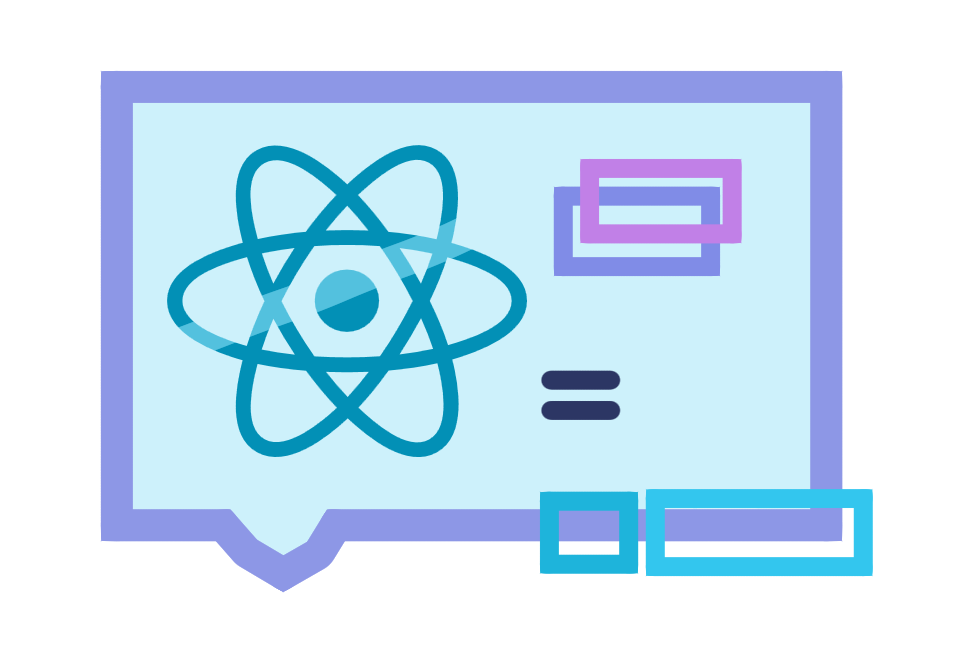
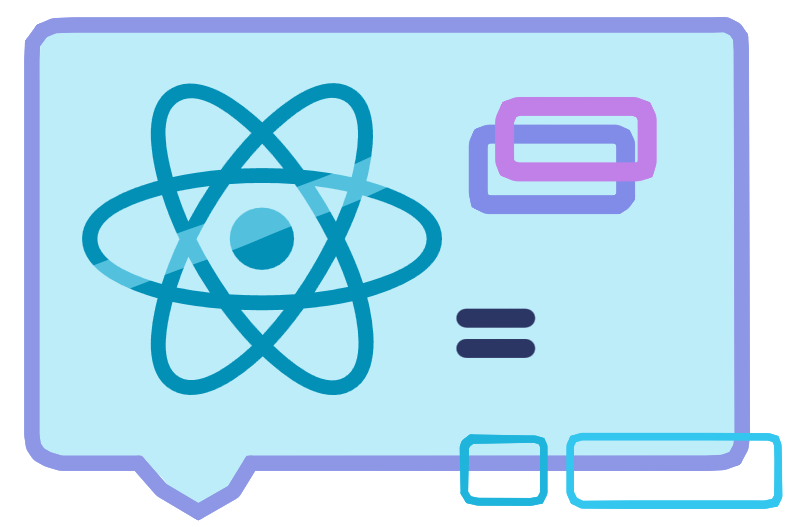
finished first paralax image

diff --git a/components/paralax/CodeArtParalax.tsx b/components/paralax/CodeArtParalax.tsx
@@ -2,9 +2,15 @@
 import { ParallaxProvider } from "react-scroll-parallax";
 import SpeachBubble from "./SpeachBubble";
 
-import ReactSpeachBubble from "@/public/images/ReactSpeachBubble.png";
 import codePP from "@/public/images/codePP.png";
 import artPP from "@/public/images/artPP.png";
+import reactBubble from "@/public/images/ReactSpeachBubble.png";
+import awsBubble from "@/public/images/awsBubble.png";
+import dotBubble from "@/public/images/DotBubble.png";
+import bulb from "@/public/images/bulb.png";
+import coffee from "@/public/images/coffeeFlipped.png";
+import docker from "@/public/images/docker.png";
+import plane from "@/public/images/plane.png";
 
 import SpeachBubbleContent from "./SpeachBubbleContent";
 
@@ -12,54 +18,109 @@ function CodeArtParalax() {
   return (
     <div className="p-8">
       <ParallaxProvider>
-        <div className="relative border-4 border-amber-900">
+        <div className="relative">
           <div className="absolute ">
             <SpeachBubble speed={20} mirror={false}>
               <SpeachBubbleContent
-                img={ReactSpeachBubble}
+                img={codePP}
+                alt="codePP"
+                start={60}
+                end={70}
+                position="left-20 top-1/14 z-2"
+                height={500}
+                width={500}
+                inFront={false}
+              ></SpeachBubbleContent>
+
+              <SpeachBubbleContent
+                img={reactBubble}
                 alt="reactbubble"
-                start={10}
-                end={10}
-                position="right-5 top-30"
+                start={20}
+                end={50}
+                position="left-1/10 top-10 z-1"
                 height={200}
                 width={200}
                 inFront={false}
               ></SpeachBubbleContent>
 
               <SpeachBubbleContent
-                img={codePP}
-                alt="codePP"
-                start={40}
-                end={50}
-                position="left-10 top-1/14"
-                height={500}
-                width={500}
+                img={plane}
+                alt="reactbubble"
+                start={150}
+                end={150}
+                position="left-7/10 top-80 z-1"
+                height={200}
+                width={200}
+                inFront={false}
+              ></SpeachBubbleContent>
+
+              <SpeachBubbleContent
+                img={docker}
+                alt="reactbubble"
+                start={10}
+                end={40}
+                position="left-7/10 top-10 z-1"
+                height={200}
+                width={200}
+                inFront={false}
+              ></SpeachBubbleContent>
+
+              <SpeachBubbleContent
+                img={awsBubble}
+                alt="aws"
+                start={100}
+                end={100}
+                position="right-2/10 top-35 z-1"
+                height={200}
+                width={200}
+                inFront={false}
+              ></SpeachBubbleContent>
+
+              <SpeachBubbleContent
+                img={dotBubble}
+                alt="dotdotdot"
+                start={100}
+                end={100}
+                position="left-2/50 top-50 z-1"
+                height={200}
+                width={200}
+                inFront={false}
+              ></SpeachBubbleContent>
+
+              <SpeachBubbleContent
+                img={bulb}
+                alt="dotdotdot"
+                start={500}
+                end={400}
+                position="left-25/50 top-75 z-51"
+                height={100}
+                width={100}
+                inFront={false}
+              ></SpeachBubbleContent>
+
+              <SpeachBubbleContent
+                img={coffee}
+                alt="dotdotdot"
+                start={400}
+                end={300}
+                position="left-1/100 top-80 z-1"
+                height={130}
+                width={130}
                 inFront={false}
               ></SpeachBubbleContent>
             </SpeachBubble>
           </div>
 
-          <div className="absolute left-2/10 top-60">
-            <SpeachBubble speed={50} mirror={true}>
-              <SpeachBubbleContent
-                img={ReactSpeachBubble}
-                alt="reactbubble"
-                start={50}
-                end={200}
-                position="right-20 top-2/10"
-                height={100}
-                width={100}
-                inFront={true}
-              ></SpeachBubbleContent>
-
+          <div className="absolute left-2/10 top-45">
+            <SpeachBubble speed={40} mirror={true}>
               <SpeachBubbleContent
                 img={artPP}
                 alt="artPP"
-                start={80}
-                end={100}
-                position="left-20 -top-2/10"
-                height={800}
-                width={800}
+                start={100}
+                end={120}
+                position="left-20 -bottom-6/10"
+                height={600}
+                width={600}
                 inFront={false}
               ></SpeachBubbleContent>
             </SpeachBubble>

diff --git a/components/paralax/SmallBubble.tsx b/components/paralax/SmallBubble.tsx
@@ -1,0 +1,32 @@
+import { Parallax } from "react-scroll-parallax";
+import { useParallaxController } from "react-scroll-parallax";
+import Image from "next/image";
+import { StaticImageData } from "next/image";
+
+function SmallBubble({
+  img,
+  speed,
+  w,
+  h,
+}: {
+  img: StaticImageData;
+  speed: number;
+  w: number;
+  h: number;
+}) {
+  const parallaxController = useParallaxController();
+  return (
+    <Parallax speed={speed}>
+      <div className=" ">
+        <Image
+          src={img}
+          alt="speach"
+          width={w}
+          height={h}
+          onLoad={() => parallaxController?.update()}
+        />
+      </div>
+    </Parallax>
+  );
+}
+export default SmallBubble;

diff --git a/components/paralax/SpeachBubble.tsx b/components/paralax/SpeachBubble.tsx
@@ -64,7 +64,7 @@ const SpeachBubble = ({
   return (
     <div>
       <Parallax speed={speed}>
-        <div ref={BoundingBoxRef} className="absolute overflow-hidden ">
+        <div ref={BoundingBoxRef} className="absolute overflow-hidden z-50">
           {children}
         </div>
         <div ref={BubbleImgRef} className=" ">
